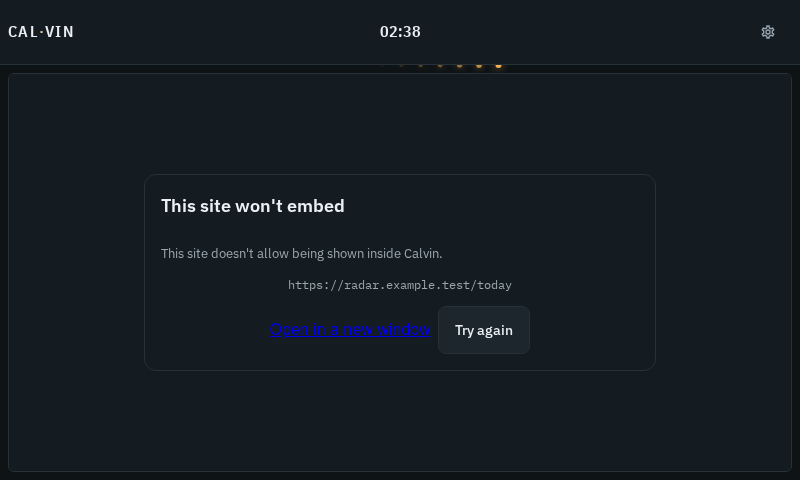
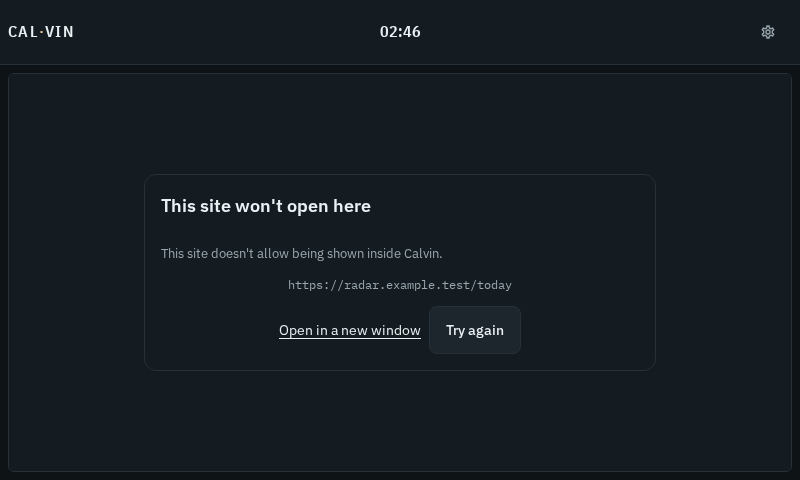
fix(frontend): one link style, one upload status line (calvin-kajl M7, M8)
Design-lead review of PR 7:

- ExternalLink carries a zero-specificity .external-link hook, so every
  "Open in a new window" sits on the button baseline with the doctrine's
  text-link ink; a caller's own class still wins.
- IframeRenderer's fallback card says "This site won't open here", matching
  IframeViewer. The copy guard now bans "embed" too.
- The plugin upload row uses its one mounted polite InlineNote for the error
  and the success line (ok tone); the hand-styled green box is gone.

Re-shot the four 800x480 iframe screenshots and the two 390 upload-success
screenshots under docs/design/mocks/audit-plain-words/.

Changed region(s): [[0.3438, 0.6562, 0.625, 0.7188], [0.375, 0.4062, 0.4688, 0.4688], [0.5, 0.0312, 0.5312, 0.0938]]

diff --git a/frontend/src/components/PluginSections.vue b/frontend/src/components/PluginSections.vue
@@ -28,12 +28,13 @@
         <span v-if="section.help_text" class="help-text">
           {{ section.help_text }}
         </span>
-        <InlineNote :tone="uploadError ? 'err' : 'neutral'" role="status" data-test="upload-error">
-          {{ uploadError }}
+        <InlineNote
+          :tone="uploadError ? 'err' : uploadSuccess ? 'ok' : 'neutral'"
+          role="status"
+          data-test="upload-error"
+        >
+          {{ uploadError || uploadSuccess }}
         </InlineNote>
-        <div v-if="uploadSuccess" class="success-message">
-          {{ uploadSuccess }}
-        </div>
       </div>
     </div>
   </div>
@@ -99,15 +100,6 @@ const handleFileSelect = event => {
 
 .upload-section {
   margin-top: 1rem;
-}
-
-.success-message {
-  background: var(--accent-success, var(--ok));
-  color: var(--ok-ink);
-  padding: 0.75rem 1rem;
-  border-radius: var(--radius-xs);
-  margin-top: 0.5rem;
-  font-size: var(--fs-control);
 }
 
 .help-text {

diff --git a/frontend/src/components/ui/ExternalLink.vue b/frontend/src/components/ui/ExternalLink.vue
@@ -2,6 +2,7 @@
   <a
     v-if="safe"
     v-bind="$attrs"
+    class="external-link"
     :href="href"
     :target="onKiosk ? undefined : '_blank'"
     rel="noopener noreferrer"
@@ -36,3 +37,25 @@ const onClick = event => {
   showQr.value = true;
 };
 </script>
+
+<style scoped>
+:where(.external-link) {
+  display: inline-flex;
+  align-items: center;
+  min-height: var(--touch-target);
+  font-family: var(--font-ui);
+  font-size: var(--text-body);
+  color: var(--ink);
+  text-decoration: underline;
+  text-underline-offset: 3px;
+}
+
+:where(.external-link):hover {
+  color: var(--focus-text);
+}
+
+:where(.external-link):focus-visible {
+  outline: 2px solid var(--focus-ring);
+  outline-offset: 2px;
+}
+</style>

diff --git a/frontend/tests/unit/components/PluginSections.spec.js b/frontend/tests/unit/components/PluginSections.spec.js
@@ -39,8 +39,11 @@ describe("PluginSections upload", () => {
     expect(note.find(".inline-note__icon").exists()).toBe(true);
   });
 
-  it("shows the success line it is given", () => {
+  it("shows the success line in the same polite note, and has no green box", () => {
     const w = mountUpload({ uploadSuccess: "Uploaded 3 photos." });
-    expect(w.find(".success-message").text()).toBe("Uploaded 3 photos.");
+    const note = w.findComponent(InlineNote);
+    expect(note.text()).toBe("Uploaded 3 photos.");
+    expect(note.props("tone")).toBe("ok");
+    expect(w.find(".success-message").exists()).toBe(false);
   });
 });

diff --git a/frontend/tests/unit/copy/noDevWords.spec.js b/frontend/tests/unit/copy/noDevWords.spec.js
@@ -22,7 +22,7 @@ const UPDATE_LIFECYCLE = "src/utils/updateLifecycle.js";
 // "Say screen, page, source, plugin, Calvin (for the server)" — never these.
 // `api` stays legal for "API keys", and `configuration` is not `config`.
 const BANNED =
-  /\b(backend|frontend|api(?! key)|instance|schema|payload|endpoint|branch|repository|healthy|config(?!m)|x-frame|csp|cors|iframe)\b/i;
+  /\b(backend|frontend|api(?! key)|instance|schema|payload|endpoint|branch|repository|healthy|config(?!m)|x-frame|csp|cors|iframe|embed)\b/i;
 
 const COPY_ATTRS = ["label", "description", "title", "placeholder", "aria-label", "message"];
 

diff --git a/frontend/tests/unit/components/plugins/KioskLinks.spec.js b/frontend/tests/unit/components/plugins/KioskLinks.spec.js
@@ -293,6 +293,9 @@ describe("ExternalLink: the one way to leave Calvin (S6)", () => {
     });
     expect(w.find("a").attributes("target")).toBe("_blank");
     expect(w.find("a").attributes("rel")).toContain("noopener");
+    // The one link style is a zero-specificity hook, so a caller's own class
+    // still wins while every link sits on the same button baseline.
+    expect(w.find("a").classes()).toContain("external-link");
   });
 
   it("shows the QR handoff and never navigates on a kiosk", async () => {

diff --git a/frontend/tests/unit/components/plugins/RendererBlocks.spec.js b/frontend/tests/unit/components/plugins/RendererBlocks.spec.js
@@ -127,7 +127,7 @@ describe("iframe uses Card, InlineNote and Button for the embed fallback", () =>
     const wrapper = await mountFailing();
     const card = wrapper.findComponent(Card);
     expect(card.exists()).toBe(true);
-    expect(card.text()).toContain("This site won't embed");
+    expect(card.text()).toContain("This site won't open here");
     expect(wrapper.findComponent(InlineNote).text()).toBe(
       "This site doesn't allow being shown inside Calvin."
     );

diff --git a/frontend/src/components/plugins/renderers/IframeRenderer.vue b/frontend/src/components/plugins/renderers/IframeRenderer.vue
@@ -33,7 +33,7 @@
     <div v-if="error" class="iframe-renderer__fallback">
       <Card
         class="iframe-renderer__fallback-card"
-        :title="frameBlock.blocked.value ? FRAME_BLOCKED_TITLE : `This site won't embed`"
+        :title="frameBlock.blocked.value ? FRAME_BLOCKED_TITLE : `This site won't open here`"
       >
         <InlineNote v-if="frameBlock.blocked.value" data-test="frame-blocked-body">
           {{ frameBlockedBody(frameBlock.sealed.value) }}
